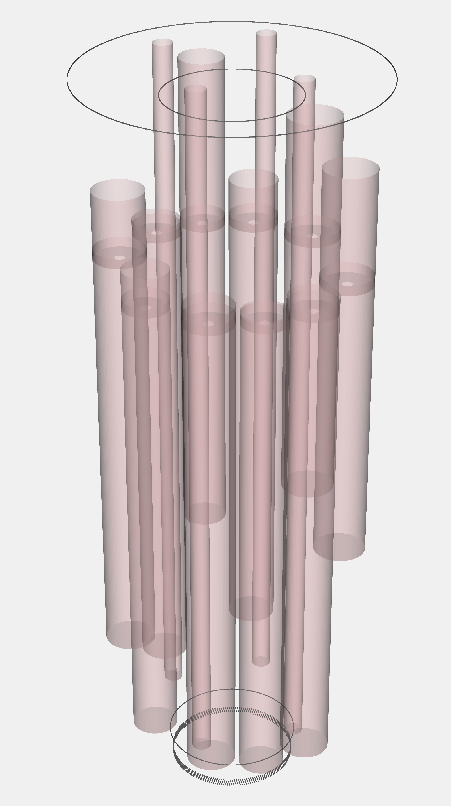
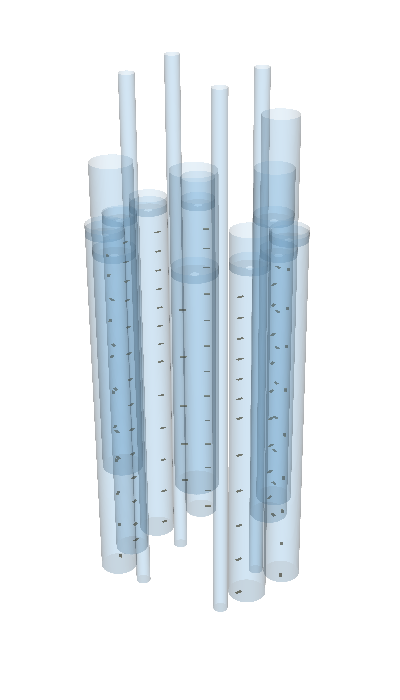
docs: add script to generate all renderings at once

diff --git a/docs/generate_docs_images.py b/docs/generate_docs_images.py
@@ -1,0 +1,88 @@
+#!/bin/env python3
+from __future__ import annotations
+
+import logging
+
+from pyg4ometry import config as meshconfig
+from pygeomtools import viewer, write_pygeom
+
+from l200geom import core
+
+logging.basicConfig()
+meshconfig.setGlobalMeshSliceAndStack(100)
+
+images = {
+    "fibers": {"assemblies": ["fibers"]},
+    "top_plate": {"assemblies": ["top"]},
+    "holders": {
+        "assemblies": ["strings"],
+        "overrides": {
+            "minishroud_.*": False,
+            "[BVPC].*": False,
+            "pen_.*": [0, 0, 1, 1],
+        },
+    },
+    "hpge_strings": {
+        "assemblies": ["strings"],
+        "overrides": {
+            "pen_.*": False,
+            "minishroud_.*": False,
+            "hpge_support_copper_.*": False,
+            "cable.*": False,
+            "ultem_.*": False,
+        },
+    },
+    "nylon": {
+        "assemblies": ["strings", "calibration"],
+        "overrides": {
+            "pen_.*": False,
+            "hpge_support_copper_.*": False,
+            "cable.*": False,
+            "ultem_.*": False,
+            "[BVPC].*": False,
+        },
+    },
+    "wlsr": {
+        "assemblies": ["strings", "calibration", "fibers", "wlsr", "top"],
+        "overrides": {"pen_.*": [0, 0, 1, 1]},
+        "default": {
+            # "focus": [0, 0, 0],
+            # "up": [0.45, 0, 0.89],
+            # "camera": [-6885.44, 64.16, 3470.46],
+            "focus": [131, 0, 259],
+            "up": [0.45, 0, 0.89],
+            "camera": [-4572.28, 0, 2629.65],
+        },
+        "window_size": [571, 1000],
+    },
+}
+
+
+def export_image(fn: str, extra: dict) -> None:
+    vis_default = extra.get(
+        "default",
+        {
+            "focus": [292.20, 0, 574.37],
+            "up": [0.45, 0, 0.89],
+            "camera": [-2910.76, -65.44, 2208.86],
+        },
+    )
+    vis_scene = {
+        "window_size": extra.get("window_size", [400, 700]),
+        "default": vis_default,
+        "color_overrides": {"lar": False, **extra.get("overrides", {})},
+        "export_scale": 1,
+        "export_and_exit": f"source/images/{fn}.png",
+    }
+
+    registry = core.construct(
+        assemblies=extra["assemblies"],
+        use_detailed_fiber_model=True,
+        public_geometry=True,
+    )
+    write_pygeom(registry, None)
+    viewer.visualize(registry, vis_scene)
+
+
+for fn, extra in images.items():
+    export_image(fn, extra)
